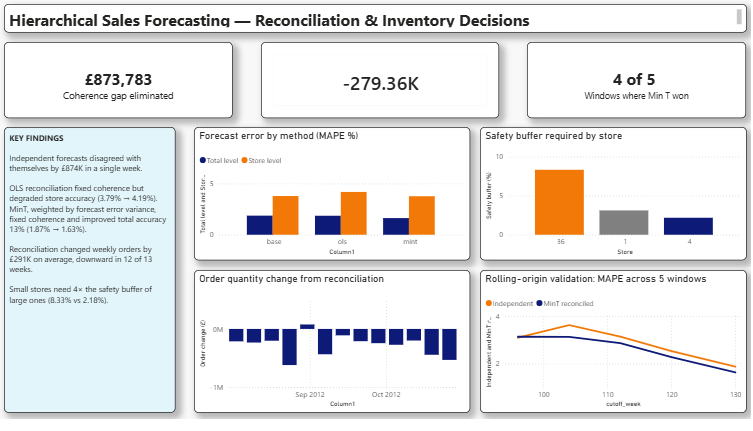
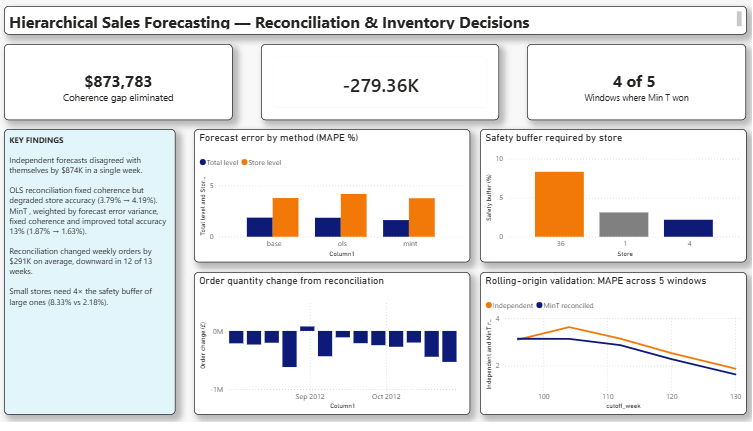
Correct currency symbols in README and dashboard

diff --git a/README.md b/README.md
@@ -28,7 +28,7 @@ The baseline is **coherent by construction**: it copies historical actuals, whic
 
 **Base models.** SARIMA(1,1,1)(1,1,1,52) fitted independently to all 49 series. Total MAPE 1.87%.
 
-**The incoherence.** The direct total forecast and the sum of the 45 store forecasts disagreed by up to **£873,783** in a single week. Gaps were predominantly positive — a systematic bias, not noise.
+**The incoherence.** The direct total forecast and the sum of the 45 store forecasts disagreed by up to **$873,783** in a single week. Gaps were predominantly positive — a systematic bias, not noise.
 
 **Reconciliation.** A coherent forecast is one expressible as `S × (45 store values)`, where `S` is the 49×45 summing matrix. Reconciliation projects the incoherent forecast onto that subspace.
 
@@ -40,9 +40,9 @@ The baseline is **coherent by construction**: it copies historical actuals, whic
 
 | Method | Coherence gap | Total MAPE | Store MAPE |
 |---|---|---|---|
-| Independent SARIMA | £873,783 | 1.87% | 3.79% |
-| OLS reconciled | £0 | 1.86% | 4.19% |
-| **MinT reconciled** | **£0** | **1.63%** | **3.77%** |
+| Independent SARIMA | $873,783 | 1.87% | 3.79% |
+| OLS reconciled | $0 | 1.86% | 4.19% |
+| **MinT reconciled** | **$0** | **1.63%** | **3.77%** |
 
 **OLS buys coherence at the cost of store accuracy.** It assumes all 49 series are equally reliable — an assumption already contradicted by the baseline, where store MAPE was 2.6× total MAPE. Noisy store errors are permitted to pull on well-estimated aggregates.
 
@@ -70,18 +70,18 @@ The newsvendor solution orders at the **critical fractile** `Cu/(Cu+Co)`:
 
 | Scenario | Fractile | Order vs forecast |
 |---|---|---|
-| Fresh grocery (Cu=1, Co=3) | 0.25 | −£1.43M |
-| Balanced (Cu=1, Co=1) | 0.50 | £0 |
-| General merchandise (Cu=3, Co=1) | 0.75 | +£1.43M |
-| Critical stock (Cu=9, Co=1) | 0.90 | +£2.72M |
+| Fresh grocery (Cu=1, Co=3) | 0.25 | −$1.43M |
+| Balanced (Cu=1, Co=1) | 0.50 | $0 |
+| General merchandise (Cu=3, Co=1) | 0.75 | +$1.43M |
+| Critical stock (Cu=9, Co=1) | 0.90 | +$2.72M |
 
 Same forecast, four different correct decisions.
 
-**Reconciliation changes the decision.** Rebuilding order quantities on MinT forecasts shifts the weekly order by **−£279K on average**, negative in 12 of 13 weeks — the unreconciled forecasts were systematically high, so reconciliation reduces over-ordering.
+**Reconciliation changes the decision.** Rebuilding order quantities on MinT forecasts shifts the weekly order by **−$279K on average**, negative in 12 of 13 weeks — the unreconciled forecasts were systematically high, so reconciliation reduces over-ordering.
 
 **Store-level buffers vary substantially.** Store 36 requires an 8.33% safety buffer against store 4's 2.18%: smaller stores carry proportionally more forecast noise. A flat percentage rule would under-protect small stores and over-protect large ones simultaneously.
 
-**Normality does not hold.** Residuals show skew 0.311, kurtosis 1.983, Jarque-Bera p = 0.011. The empirical 75th percentile (£380,811) is 3.6× smaller than the normal-implied value (£1,364,800) — a £1.05M weekly difference in order quantity. Fat tails inflate the standard deviation, and the normal assumption spreads that inflation symmetrically into a right tail the data does not exhibit.
+**Normality does not hold.** Residuals show skew 0.311, kurtosis 1.983, Jarque-Bera p = 0.011. The empirical 75th percentile ($380,811) is 3.6× smaller than the normal-implied value ($1,364,800) — a $1.05M weekly difference in order quantity. Fat tails inflate the standard deviation, and the normal assumption spreads that inflation symmetrically into a right tail the data does not exhibit.
 
 ## Limitations
 
@@ -91,11 +91,11 @@ Same forecast, four different correct decisions.
 
 **Two and a half seasonal cycles.** 130 training weeks against a 52-week period — thin for estimating annual seasonality, and the reason `enforce_stationarity` and `enforce_invertibility` were disabled.
 
-**Residual burn-in was initially wrong.** W was first estimated from index 52 (the seasonal period). Diagnostics showed the Kalman filter had not converged: residual standard deviation was £8.3M at index 52 versus £2.0M at index 80, the latter matching SARIMA's reported forecast standard error of £2.1M. Re-estimating from index 80 changed total MAPE from 1.57% to 1.63%. The MinT conclusion held, but the original figure was contaminated; all results above use burn-in 80.
+**Residual burn-in was initially wrong.** W was first estimated from index 52 (the seasonal period). Diagnostics showed the Kalman filter had not converged: residual standard deviation was $8.3M at index 52 versus $2.0M at index 80, the latter matching SARIMA's reported forecast standard error of $2.1M. Re-estimating from index 80 changed total MAPE from 1.57% to 1.63%. The MinT conclusion held, but the original figure was contaminated; all results above use burn-in 80.
 
 **Empirical quantiles are noisier.** The empirical 75th percentile is less biased than the normal-implied one but estimated from 50 residuals — thin for a tail quantile. This is a bias-variance tradeoff, not a clean improvement.
 
-**Persistent negative residual mean.** −£707K on a ~£47M series, roughly 1.5% systematic over-prediction in sample. Not diagnosed further.
+**Persistent negative residual mean.** −$707K on a ~$47M series, roughly 1.5% systematic over-prediction in sample. Not diagnosed further.
 
 **Prediction intervals not reconciled.** Order quantities use standard errors from the unreconciled fit. Propagating the full covariance through reconciliation is outside scope, so buffer widths are approximate even where point forecasts are reconciled.
 
